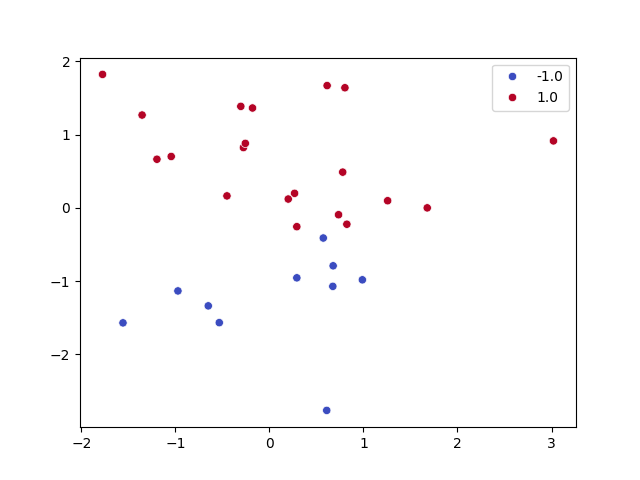
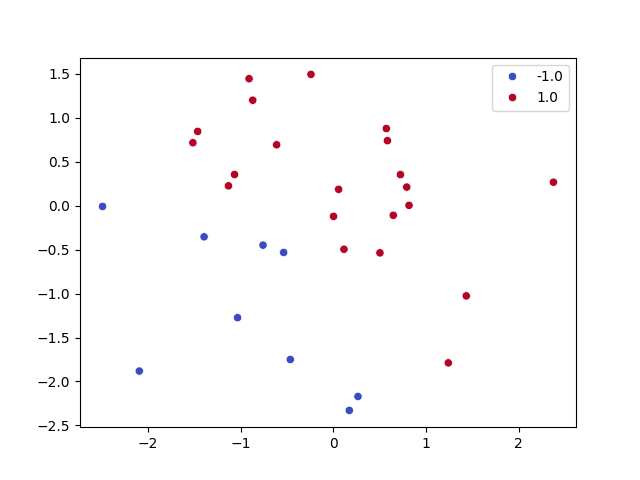
fix in perceptron script

diff --git a/scripts/perceptron/perceptron.py b/scripts/perceptron/perceptron.py
@@ -34,7 +34,7 @@ def visualize_data(
 
 
 def perceptron(X: np.ndarray, y: np.ndarray):
-    W_bias = np.random.rand(X.shape[1] + 1)
+    W_bias = np.random.random(X.shape[1] + 1)
     X_bias = np.hstack([np.ones((X.shape[0], 1)), X])
 
     W_new = W_bias.copy()
@@ -59,8 +59,8 @@ def perceptron(X: np.ndarray, y: np.ndarray):
 def main():
     n_samples = 30
     n_features = 2
-    W_true = np.random.rand(2)
-    b_true = np.random.rand()
+    W_true = np.random.random(2)
+    b_true = np.random.random()
 
     X, y = create_data(n_samples, n_features, W_true, b_true)
     visualize_data(X, y, title="./scripts/perceptron/linear_dataset.png")
